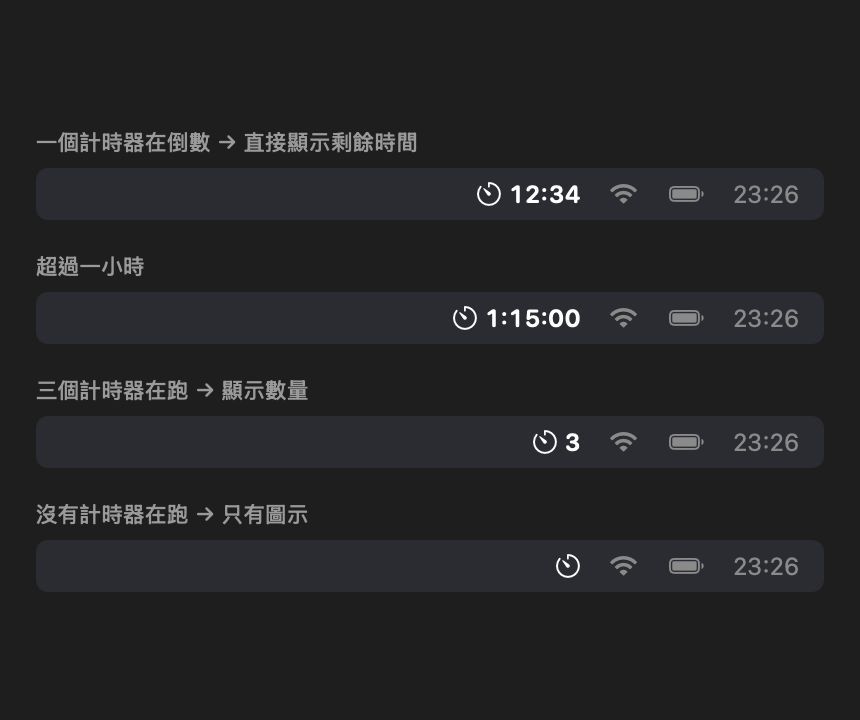
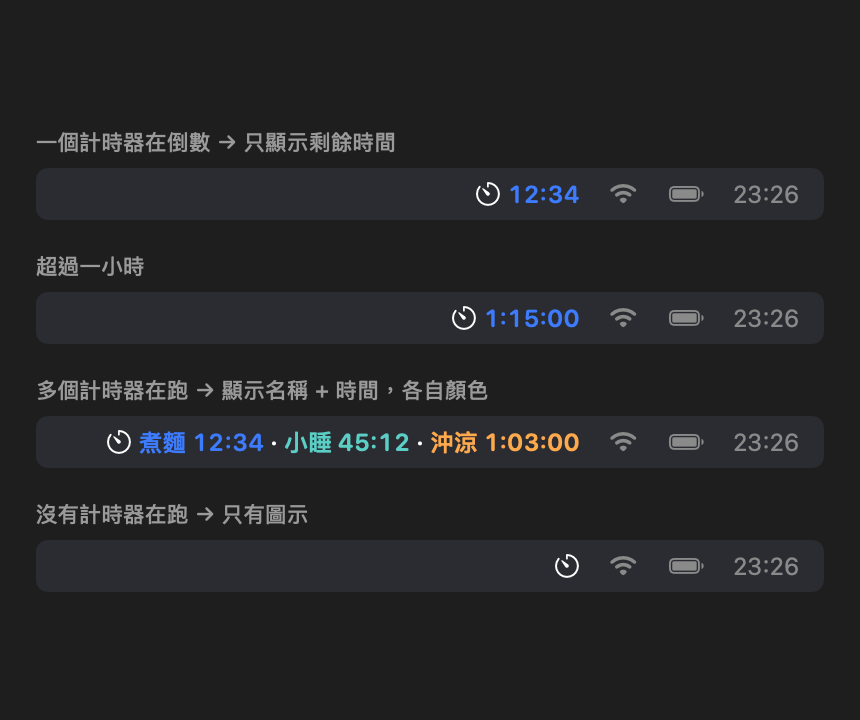
feat: 選單列並列顯示多個計時器嘅名稱與時間（v1.5.0）
同時有兩個或以上計時器進行中時，選單列會全部並列顯示，
每個標示計時器名稱與剩餘時間，並以該計時器嘅 accent 色區分：

    Honor 18:05 · iPhone 18:07

- 單一計時器維持只顯示時間（12:34），保持簡潔
- 多個計時器按剩餘時間升序排列，最快到期嘅排最前
- 多個 Text 改為合成單一 AttributedString：
  真實 MenuBarExtra 對 HStack 內多個 Text 會掉字，只渲染第一個
- 自測 75/75；README 同步更新並加入選單列示意圖

diff --git a/Sources/App.swift b/Sources/App.swift
@@ -102,13 +102,13 @@ struct MenuBarLabel: View {
     @Environment(\.openWindow) private var openWindow
 
     /// 关了「選單列顯示」就什么都不显示，只留图示
-    private var text: String? {
-        guard store.settings.badge else { return nil }
-        return Engine.menuBarText(store.timers, now: store.now)
+    private var segments: [Engine.MenuBarSegment] {
+        guard store.settings.badge else { return [] }
+        return Engine.menuBarSegments(store.timers, now: store.now)
     }
 
     var body: some View {
-        MenuBarLabelContent(text: text)
+        MenuBarLabelContent(segments: segments)
             .accessibilityLabel("Timer Deck")
             .onAppear {
                 // 让菜单栏的右键菜单也能开视窗
@@ -119,13 +119,33 @@ struct MenuBarLabel: View {
 
 /// 图示 + 文字。抽出来是为了能离屏渲染成预览图。
 struct MenuBarLabelContent: View {
-    var text: String?
+    var segments: [Engine.MenuBarSegment] = []
+
+    /// 所有计时器拼成「单一」文字 —— 真实菜单栏对 HStack 里多个 Text 的渲染会掉字，
+    /// 只出第一个；合成一个 AttributedString 才稳定，还能各自保留颜色。
+    /// 两个或以上进行中时，前面加上计时器名（如「Honor 19:33 · iPhone 19:35」）。
+    private var label: AttributedString {
+        var out = AttributedString()
+        let showNames = segments.count >= 2
+        for (i, seg) in segments.enumerated() {
+            if i > 0 { out += AttributedString(" · ") }
+            if showNames {
+                var nm = AttributedString(seg.name + " ")
+                nm.foregroundColor = Color(hex: seg.accentHex)
+                out += nm
+            }
+            var tm = AttributedString(seg.text)
+            tm.foregroundColor = Color(hex: seg.accentHex)
+            out += tm
+        }
+        return out
+    }
 
     var body: some View {
         HStack(spacing: 3) {
             Image(systemName: "timer")
-            if let text {
-                Text(text)
+            if !segments.isEmpty {
+                Text(label)
                     .font(.system(size: 12, weight: .semibold, design: .rounded))
                     .monospacedDigit()
             }

diff --git a/Sources/SelfTest.swift b/Sources/SelfTest.swift
@@ -102,13 +102,19 @@ enum SelfTest {
         a.status = .running; a.endsAt = now + 300_000
         var b = Engine.makeTimer(name: "小睡", seconds: 30)
         b.status = .running; b.endsAt = now + 30_000
-        check("没有进行中 → nil", Engine.menuBarText([t], now: now) == nil)
-        check("只有一个 → 显示剩余时间", Engine.menuBarText([a], now: now) == "05:00")
-        check("超过一小时 → 1:15:00", Engine.menuBarText(
-            [Engine.started(Engine.makeTimer(name: "长", seconds: 4500), now: now)], now: now) == "1:15:00")
-        check("两个 → 显示数量", Engine.menuBarText([a, b], now: now) == "2")
-        check("一个在跑 + 一个暂停 → 仍是时间", Engine.menuBarText([a, t], now: now) == "05:00")
-        check("只剩最后一个数字也看得见", Engine.menuBarText([b], now: now) == "00:30")
+        check("没有进行中 → 空", Engine.menuBarSegments([t], now: now).isEmpty)
+        check("只有一个 → 显示剩余时间",
+              Engine.menuBarSegments([a], now: now).map(\.text) == ["05:00"])
+        check("超过一小时 → 1:15:00",
+              Engine.menuBarSegments(
+                [Engine.started(Engine.makeTimer(name: "长", seconds: 4500), now: now)], now: now
+              ).map(\.text) == ["1:15:00"])
+        let segs = Engine.menuBarSegments([a, b], now: now)
+        check("两个 → 全部显示，按剩余升序", segs.map(\.text) == ["00:30", "05:00"])
+        check("各自带 accent 色", segs.first?.accentHex == b.accent && segs.last?.accentHex == a.accent)
+        check("各自带计时器名", segs.map(\.name) == [b.name, a.name])
+        check("一个在跑 + 一个暂停 → 只显示跑的",
+              Engine.menuBarSegments([a, t], now: now).map(\.text) == ["05:00"])
 
         print("\n=== 8. 铃声版本迁移 ===")
         check("SOUND_VERSION = 2", Engine.soundVersion == 2)

diff --git a/Sources/TimerEngine.swift b/Sources/TimerEngine.swift
@@ -269,25 +269,30 @@ enum Engine {
         return soonest
     }
 
+    /// 菜单栏图示旁边要显示的一格（对应一个进行中的计时器）。
+    struct MenuBarSegment {
+        let name: String
+        let text: String
+        let accentHex: String
+    }
+
     /// 菜单栏图示旁边要显示的文字。
     ///
-    /// - 只有 **一个** 计时器在倒数 → 直接显示它的剩余时间（`12:34`／`1:15:00`）
-    /// - **多个** 在倒数 → 显示数量（`3`）
-    /// - 一个都没有在跑 → `nil`（只留下图示）
-    static func menuBarText(_ timers: [TimerItem], now: Double) -> String? {
-        var running = 0
-        var shortest = Double.greatestFiniteMagnitude
+    /// - **所有**进行中的计时器都会显示，各自上自己的 accent 色
+    /// - 按剩余时间升序（最快到期的排最前）
+    /// - 一个都没有在跑 → 空阵列（只留下图示）
+    static func menuBarSegments(_ timers: [TimerItem], now: Double) -> [MenuBarSegment] {
+        var running: [(remaining: Double, segment: MenuBarSegment)] = []
 
         for t in timers {
             let v = view(t, now: now)
             guard v.status == .running else { continue }
-            running += 1
-            if v.remaining < shortest { shortest = v.remaining }
+            let seg = MenuBarSegment(name: t.name, text: formatClock(v.remaining), accentHex: t.accent)
+            running.append((v.remaining, seg))
         }
 
-        guard running > 0 else { return nil }
-        if running == 1 { return formatClock(shortest) }
-        return running > 99 ? "99+" : String(running)
+        running.sort { $0.remaining < $1.remaining }
+        return running.map { $0.segment }
     }
 
     /// 环形进度条的色调

diff --git a/Sources/UIRenderer.swift b/Sources/UIRenderer.swift
@@ -269,11 +269,16 @@ struct ChipShowcase: View {
 // ---------------------------------------------------------------------------
 
 struct MenuBarShowcase: View {
-    private static let states: [(label: String, text: String?)] = [
-        ("一個計時器在倒數 → 直接顯示剩餘時間", "12:34"),
-        ("超過一小時", "1:15:00"),
-        ("三個計時器在跑 → 顯示數量", "3"),
-        ("沒有計時器在跑 → 只有圖示", nil),
+    private static let states: [(label: String, segments: [Engine.MenuBarSegment])] = [
+        ("一個計時器在倒數 → 只顯示剩餘時間",
+         [.init(name: "煮麵", text: "12:34", accentHex: "#3D7BFF")]),
+        ("超過一小時",
+         [.init(name: "長休", text: "1:15:00", accentHex: "#3D7BFF")]),
+        ("多個計時器在跑 → 顯示名稱 + 時間，各自顏色",
+         [.init(name: "煮麵", text: "12:34", accentHex: "#3D7BFF"),
+          .init(name: "小睡", text: "45:12", accentHex: "#5BCFC5"),
+          .init(name: "沖涼", text: "1:03:00", accentHex: "#FFA94D")]),
+        ("沒有計時器在跑 → 只有圖示", []),
     ]
 
     var body: some View {
@@ -288,7 +293,7 @@ struct MenuBarShowcase: View {
 
                         HStack(spacing: 13) {
                             Spacer(minLength: 0)
-                            MenuBarLabelContent(text: state.text)
+                            MenuBarLabelContent(segments: state.segments)
                                 .foregroundStyle(.white)
                             Image(systemName: "wifi")
                             Image(systemName: "battery.100")

diff --git a/README.md b/README.md
@@ -10,7 +10,7 @@ macOS 選單列計時器 —— 無需開啟視窗，隨時掌握剩餘時間。
 
 - **常駐選單列** —— 不佔用 Dock，不干擾工作流程
 - **多計時器並行** —— 每個計時器可獨立設定時長與提示音
-- **選單列顯示剩餘時間** —— 當僅有一個計時器運行時，選單列直接顯示倒數數字（`12:34`）
+- **選單列直接看倒數** —— 單一計時器顯示剩餘時間（`12:34`）；同時有兩個以上時，全部並列顯示並標示名稱（`Honor 18:05 · iPhone 18:07`），各自以該計時器的顏色區分
 - **預設計時器一鍵啟動** —— 常用時長可預先儲存，新增後自動開始倒數
 - **右鍵選單** —— 右鍵點擊選單列圖示，即可開啟儀表板、設定或退出
 - **提示音可選** —— 內建四種音效（ping / chime / bell / alarm）
@@ -26,6 +26,10 @@ macOS 選單列計時器 —— 無需開啟視窗，隨時掌握剩餘時間。
 | 儀表板 | 設定 |
 | :---: | :---: |
 | ![儀表板](screenshots/03-dashboard.png) | ![設定](screenshots/04-settings.png) |
+
+**選單列顯示** —— 一個計時器只顯示時間；兩個以上則並列顯示名稱與時間，各自以該計時器的顏色區分：
+
+![選單列](screenshots/14-menubar.png)
 
 ## 下載安裝
 
@@ -97,7 +101,7 @@ open ".build/Timer Deck.app"
 
 ## English
 
-**Timer Deck** is a lightweight menu-bar timer for macOS 13+ (Apple Silicon). Timers stay one click away, the remaining time is displayed directly in the menu bar when a single timer is active, and everything is stored locally — the app makes no network requests.
+**Timer Deck** is a lightweight menu-bar timer for macOS 13+ (Apple Silicon). Timers stay one click away and the countdown is shown directly in the menu bar: a single running timer displays its remaining time (`12:34`), while two or more running timers are listed side by side with their names and each timer's own accent color (`Honor 18:05 · iPhone 18:07`). Everything is stored locally — the app makes no network requests.
 
 **Install:** download the latest `TimerDeck-x.x.x-macOS.zip` from [Releases](https://github.com/bassoonowlpie/timer-deck-mac/releases/latest), unzip, and drag `Timer Deck.app` into `/Applications`.
 
